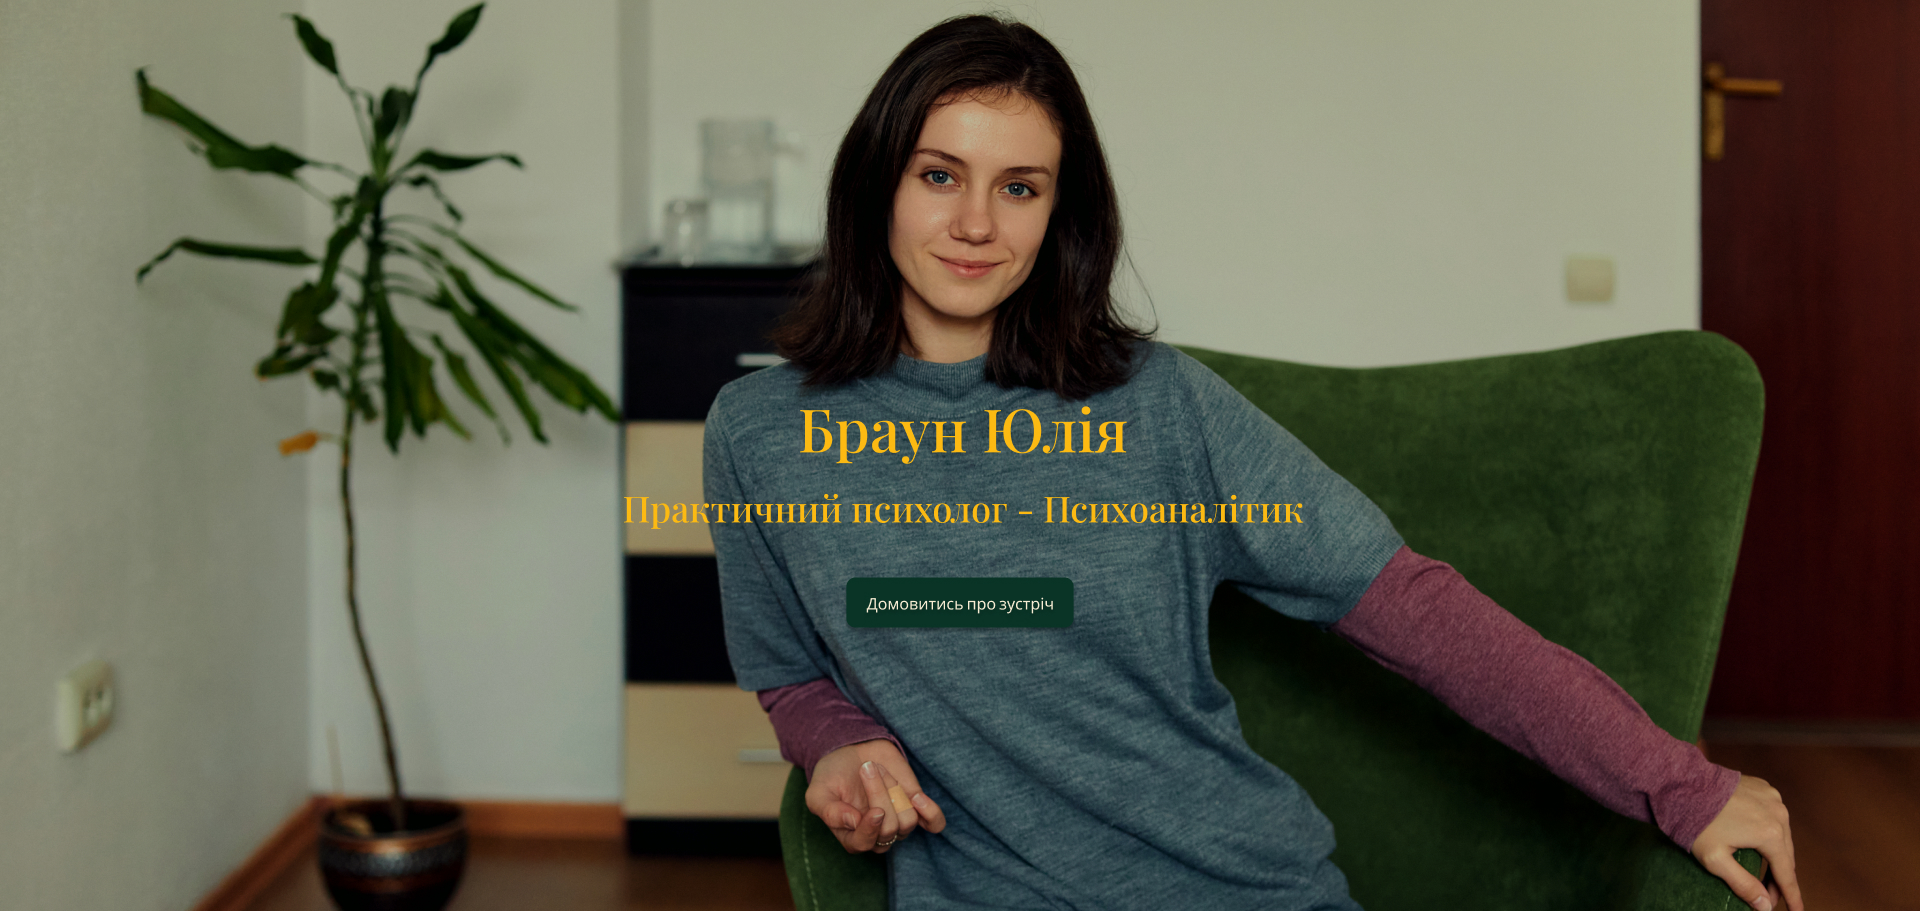
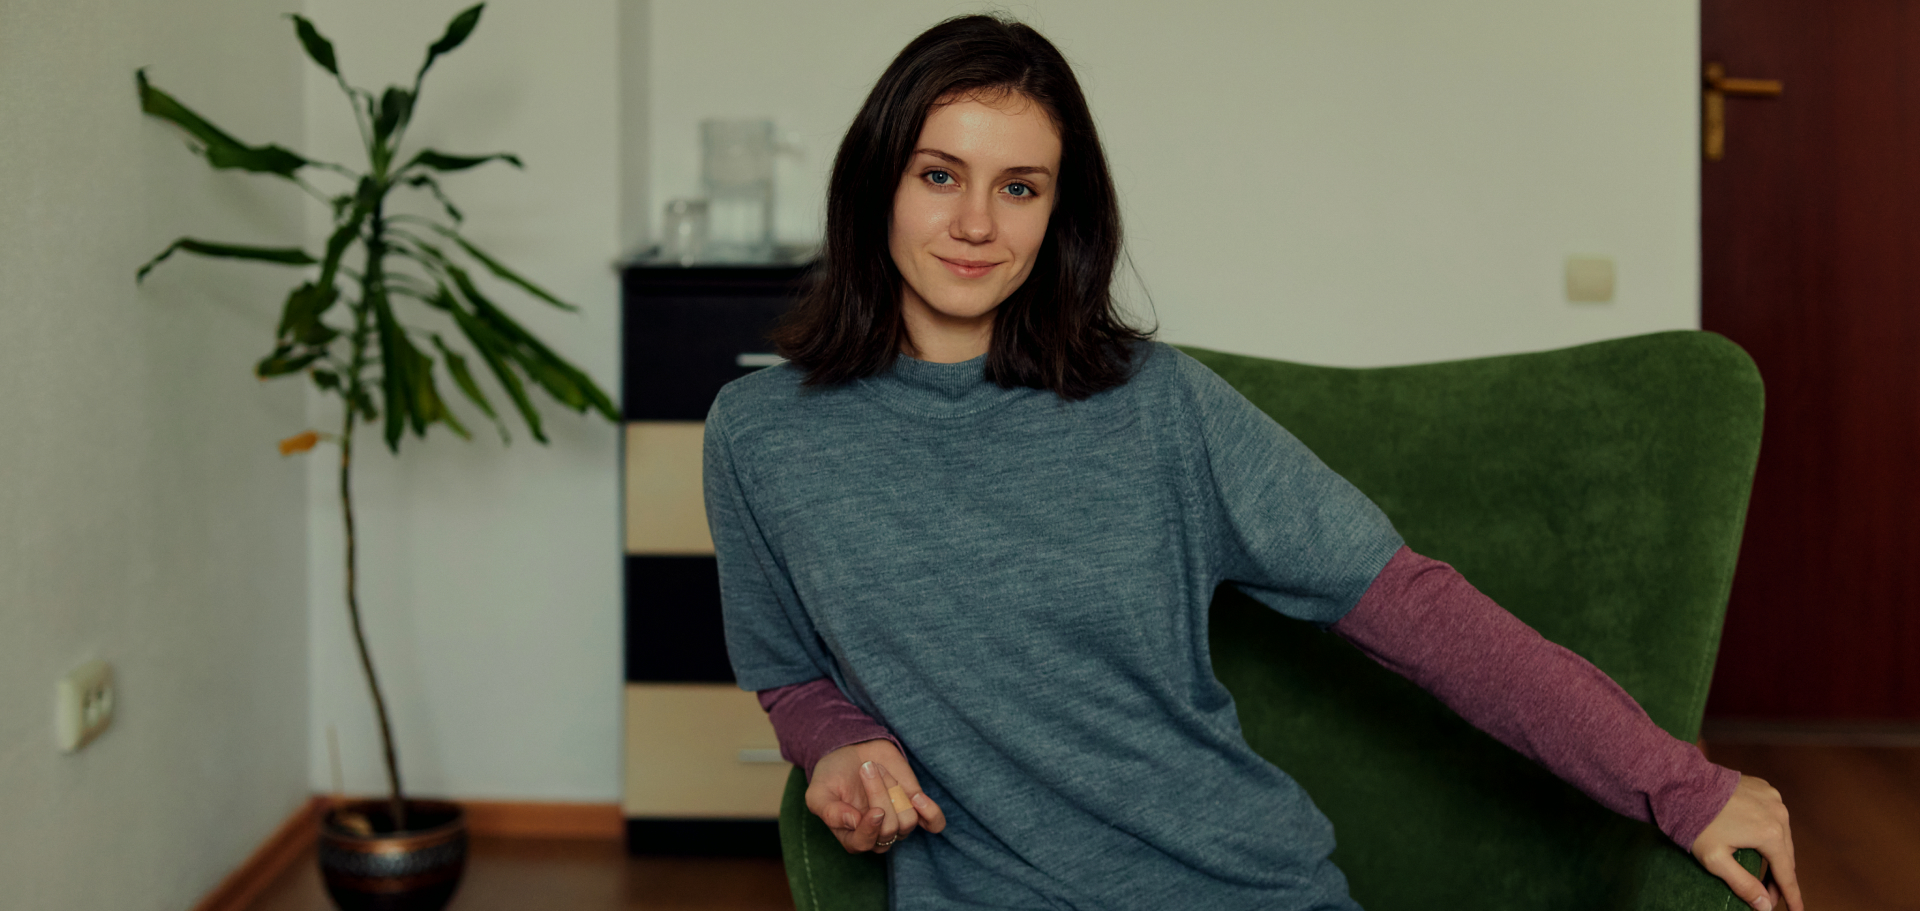
hero_update

Changed region(s): [[0.4375, 0.6147, 0.5625, 0.7069], [0.3125, 0.5532, 0.6875, 0.584], [0.4062, 0.461, 0.5938, 0.5225]]

diff --git a/src/components/Hero/Hero.styled.jsx b/src/components/Hero/Hero.styled.jsx
@@ -3,26 +3,77 @@ import styled from '@emotion/styled';
 export const HeroContainer = styled.div`
   background-size: cover;
   background-position: center;
-  height: 300px;
+  height: 900px;
+  margin-top: 10px;
+
   display: flex;
   flex-direction: column;
   justify-content: center;
   align-items: center;
 
   background-image: url(${props => props.backgroundImage});
+  position: absolute;
+  width: 1920px;
+  left: 0px;
+  top: 90px;
 `;
 
-export const HeroText = styled.h1`
-  font-size: 24px;
-  color: white;
+export const HeroTitle = styled.h1`
+  font-family: 'Playfair Display';
+  font-style: normal;
+  font-weight: 500;
+  font-size: 60px;
+  line-height: 10px;
+
+  display: flex;
+  align-items: center;
   text-align: center;
-  margin-bottom: 10px;
+
+  color: #fcba12;
+`;
+
+export const HeroText = styled.h2`
+  font-family: 'Playfair Display';
+  font-style: normal;
+  font-weight: 500;
+  font-size: 36px;
+  line-height: 10px;
+
+  display: flex;
+  align-items: center;
+  text-align: center;
+
+  color: #fcba12;
 `;
 
 export const HeroButton = styled.button`
   background-color: #093426;
-  color: white;
   padding: 10px 20px;
   border: none;
   cursor: pointer;
+
+  font-family: 'Paytone One';
+  font-style: normal;
+  font-weight: 400;
+  font-size: 16px;
+  line-height: 20px;
+
+  align-items: center;
+  text-align: center;
+
+  color: #f7edd4;
+
+  text-shadow: 0px 4px 4px rgba(0, 0, 0, 0.25);
+  backdrop-filter: blur(2px);
+  border-radius: 10px;
+
+  &:hover {
+    box-shadow: 0px 0px 10px rgba(0, 0, 0, 0.2);
+  }
+`;
+
+export const HeroContent = styled.div`
+  display: flex;
+  flex-direction: column;
+  align-items: center;
 `;

diff --git a/src/components/Hero/Hero.jsx b/src/components/Hero/Hero.jsx
@@ -1,13 +1,21 @@
 import React from 'react';
-import { HeroContainer, HeroText, HeroButton } from './Hero.styled';
+import {
+  HeroContainer,
+  HeroText,
+  HeroButton,
+  HeroContent,
+  HeroTitle,
+} from './Hero.styled';
 import heroImage from '../assets/image/hero_banner.jpg';
 
 const Hero = () => {
   return (
     <HeroContainer backgroundImage={heroImage}>
-      <HeroText>Браун Юлія</HeroText>
-      <HeroText>Практичний психолог - Психоаналітик</HeroText>
-      <HeroButton>Домовитись про зустріч</HeroButton>
+      <HeroContent>
+        <HeroTitle>Браун Юлія</HeroTitle>
+        <HeroText>Практичний психолог - Психоаналітик</HeroText>
+        <HeroButton>Домовитись про зустріч</HeroButton>
+      </HeroContent>
     </HeroContainer>
   );
 };
